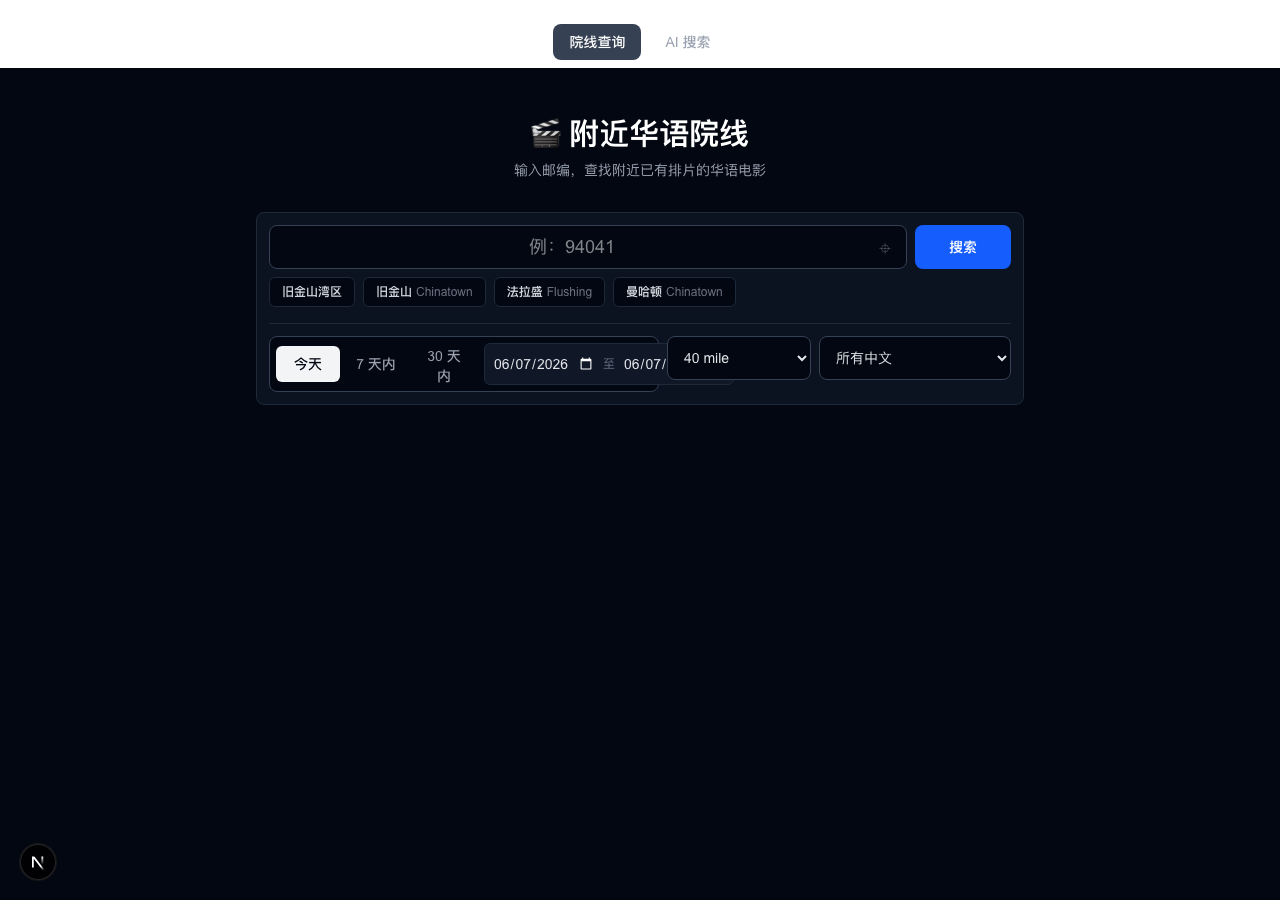
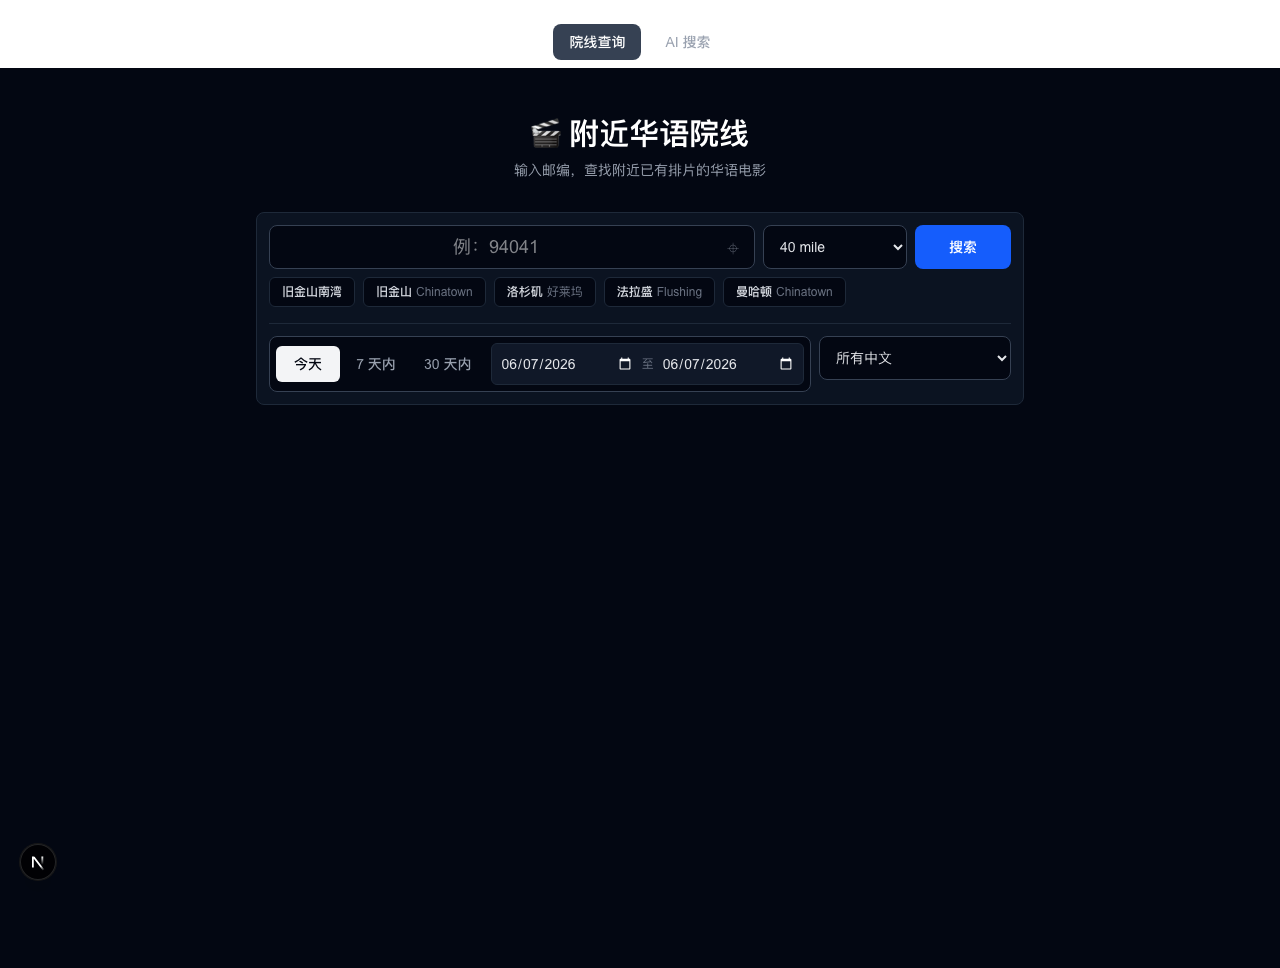
Refine location radius controls

Changed region(s): [[0.1875, 0.1244, 0.8125, 0.4356], [0.0, 0.0311, 1.0, 0.0933]]

diff --git a/app/page.tsx b/app/page.tsx
@@ -152,8 +152,9 @@ const radiusOptions: { value: RadiusMiles; label: string }[] = [
 ];
 
 const popularLocations = [
-  { label: '旧金山湾区', description: '', zip: '94041' },
+  { label: '旧金山南湾', description: '', zip: '94041' },
   { label: '旧金山', description: 'Chinatown', zip: '94133' },
+  { label: '洛杉矶', description: '好莱坞', zip: '90028' },
   { label: '法拉盛', description: 'Flushing', zip: '11354' },
   { label: '曼哈顿', description: 'Chinatown', zip: '10013' },
 ];
@@ -432,7 +433,7 @@ export default function Home() {
           className="mx-auto mb-4 min-w-0 overflow-hidden rounded-lg border border-gray-800 bg-gray-900/70 p-3"
           style={{ width: 'calc(100vw - 2rem)', maxWidth: '48rem' }}
         >
-          <div className="grid gap-2 sm:grid-cols-[minmax(0,1fr)_6rem]">
+          <div className="grid grid-cols-[minmax(0,1fr)_8rem] gap-2 sm:grid-cols-[minmax(0,1fr)_9rem_6rem]">
             <div className="relative flex-1">
               <label htmlFor="zip-input" className="sr-only">邮编</label>
               <input
@@ -460,10 +461,23 @@ export default function Home() {
               </button>
             </div>
 
+            <label className="sr-only" htmlFor="radius-filter">范围</label>
+            <select
+              id="radius-filter"
+              value={radius}
+              onChange={e => setRadius(Number(e.target.value) as RadiusMiles)}
+              className="h-11 rounded-lg border border-gray-700 bg-gray-950 px-3 text-sm text-gray-200 outline-none [color-scheme:dark] focus:border-blue-500"
+            >
+              {radiusOptions.map(option => (
+                <option key={option.value} value={option.value}>
+                  {option.label}
+                </option>
+              ))}
+            </select>
             <button
               onClick={() => void search()}
               disabled={status === 'loading'}
-              className="h-11 rounded-lg bg-blue-600 px-4 text-sm font-semibold text-white transition-colors hover:bg-blue-500 disabled:opacity-50 sm:w-24 sm:shrink-0"
+              className="col-span-2 h-11 rounded-lg bg-blue-600 px-4 text-sm font-semibold text-white transition-colors hover:bg-blue-500 disabled:opacity-50 sm:col-span-1 sm:w-24 sm:shrink-0"
             >
               {status === 'loading' ? fmtTime(elapsed) : '搜索'}
             </button>
@@ -491,7 +505,7 @@ export default function Home() {
             })}
           </div>
 
-          <div className="mt-3 grid gap-2 border-t border-gray-800 pt-3 sm:grid-cols-[minmax(0,1fr)_9rem_12rem]">
+          <div className="mt-3 grid gap-2 border-t border-gray-800 pt-3 sm:grid-cols-[minmax(0,1fr)_12rem]">
             <div className="rounded-lg border border-gray-700 bg-gray-950 p-1.5 sm:flex sm:items-center sm:gap-2">
               <div className="flex gap-1">
                 {rangeOptions.map(option => (
@@ -529,19 +543,6 @@ export default function Home() {
                 />
               </div>
             </div>
-            <label className="sr-only" htmlFor="radius-filter">范围</label>
-            <select
-              id="radius-filter"
-              value={radius}
-              onChange={e => setRadius(Number(e.target.value) as RadiusMiles)}
-              className="h-11 rounded-lg border border-gray-700 bg-gray-950 px-3 text-sm text-gray-200 outline-none [color-scheme:dark] focus:border-blue-500"
-            >
-              {radiusOptions.map(option => (
-                <option key={option.value} value={option.value}>
-                  {option.label}
-                </option>
-              ))}
-            </select>
             <label className="sr-only" htmlFor="audio-filter">语言</label>
             <select
               id="audio-filter"

diff --git a/app/api/movies/route.js b/app/api/movies/route.js
@@ -119,7 +119,7 @@ function parseSearchRange(searchParams) {
 function parseSearchRadius(searchParams) {
   const requestedRadius = Number(searchParams.get('radius') ?? DEFAULT_SEARCH_RADIUS_MILES);
   if (!Number.isInteger(requestedRadius) || !SEARCH_RADIUS_OPTIONS.has(requestedRadius)) {
-    throw new Error('搜索范围必须是 10、50 或 200 mile');
+    throw new Error('搜索范围必须是 10、40 或 200 mile');
   }
   return requestedRadius;
 }
